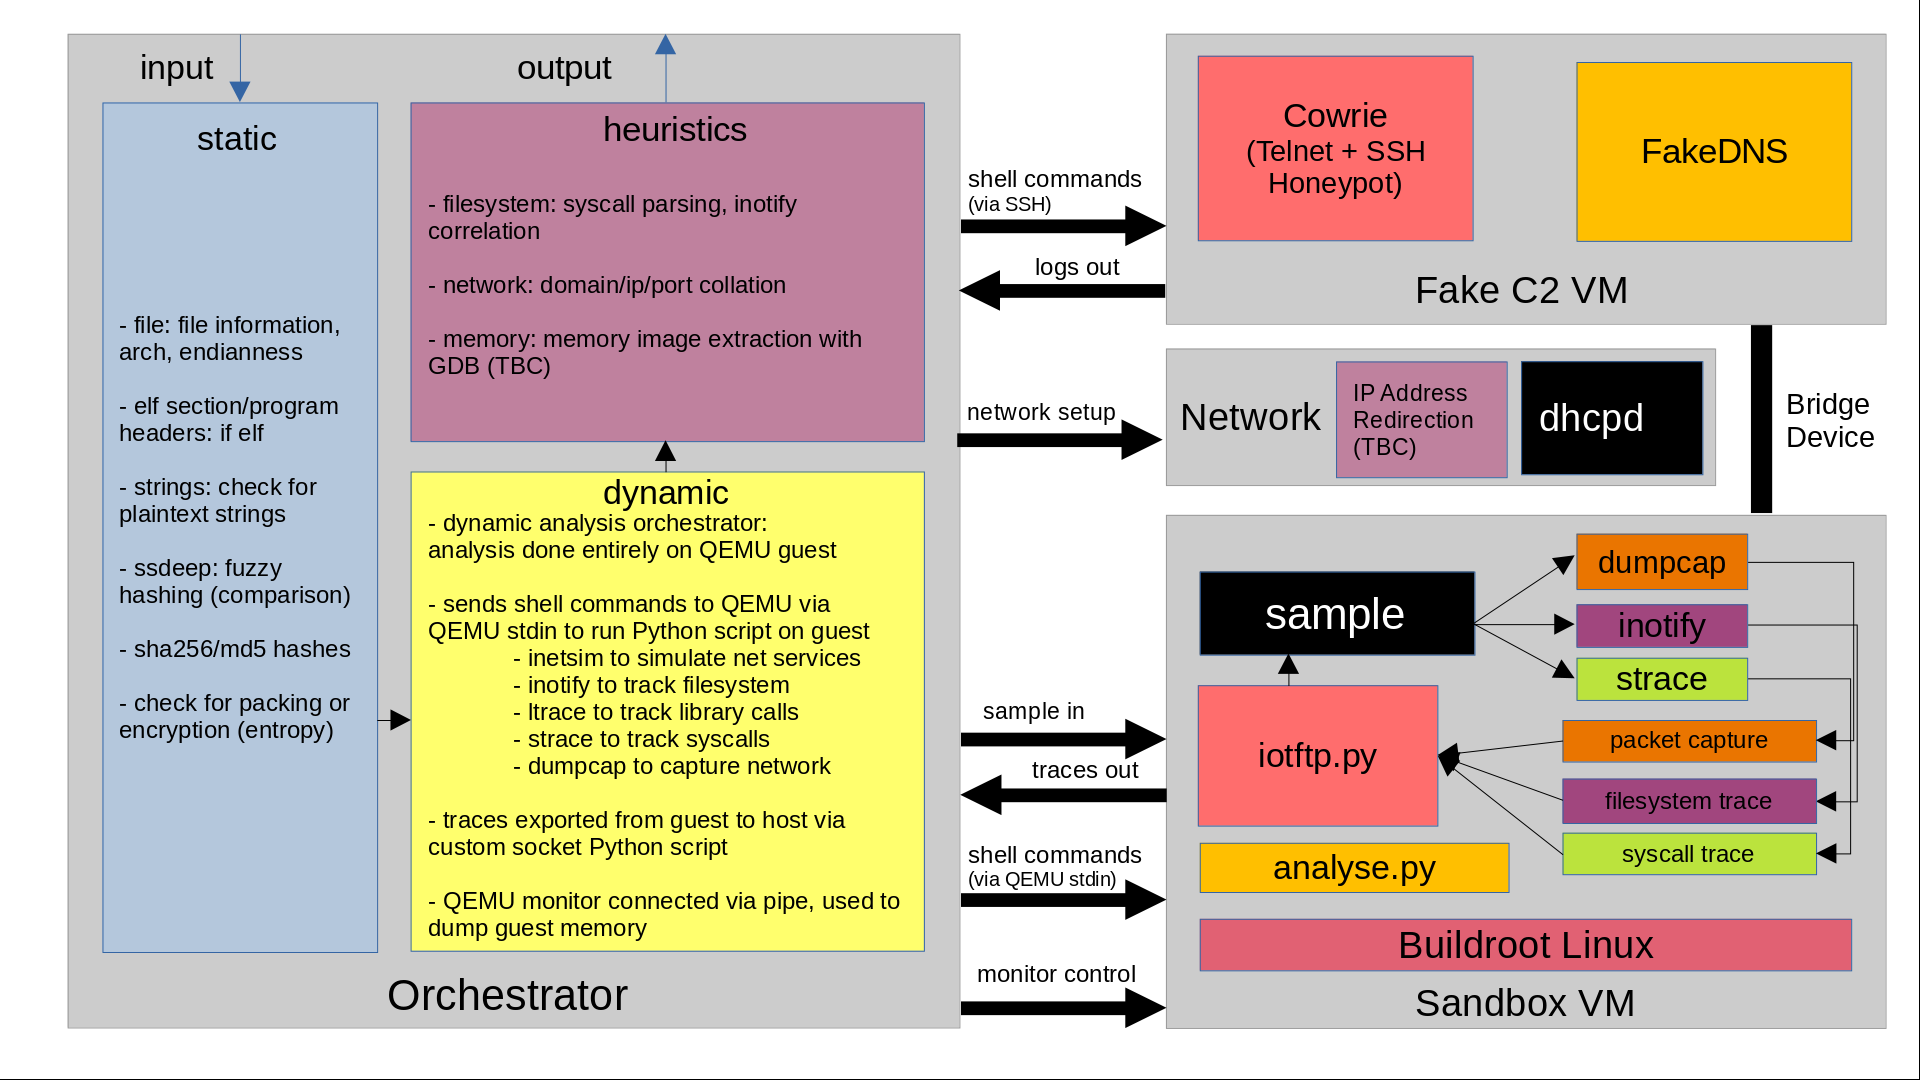
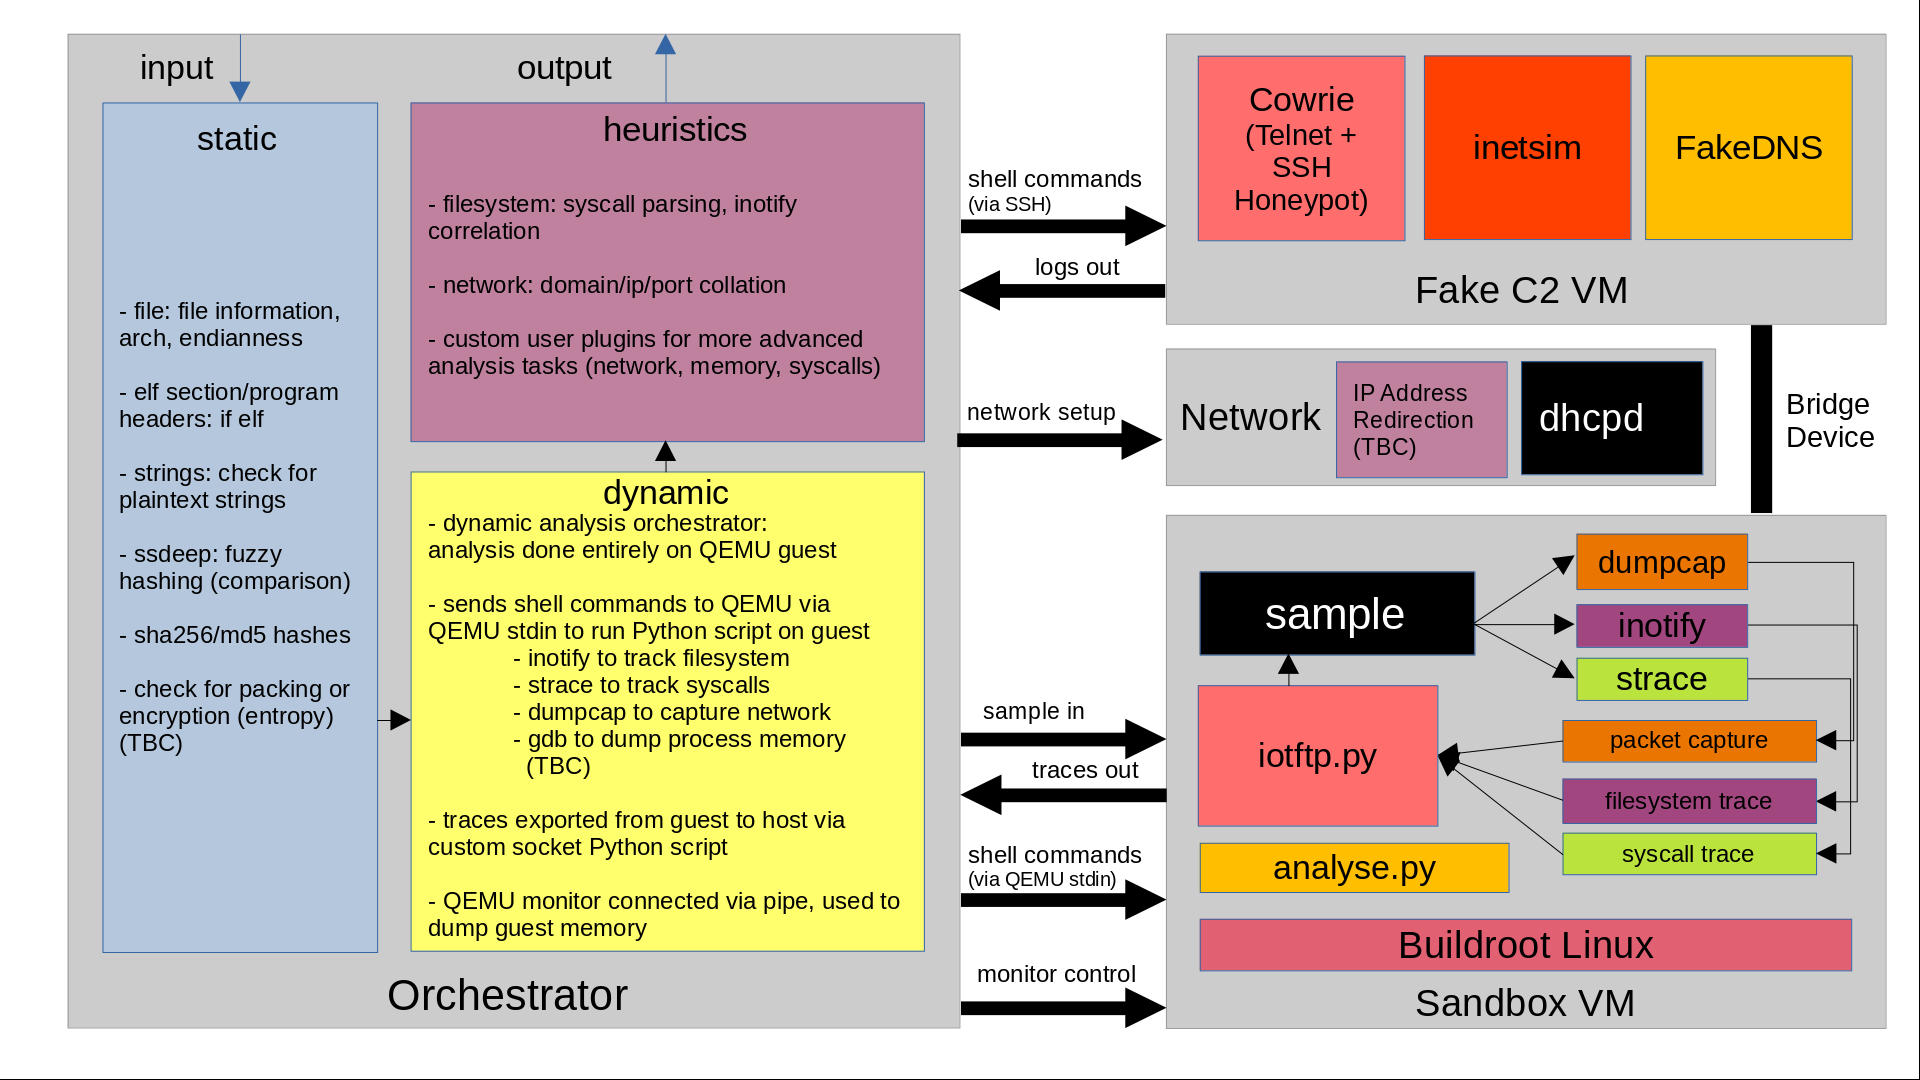
fixed typos, added new diagram

diff --git a/docs/1-overview.md b/docs/1-overview.md
@@ -44,4 +44,4 @@ It relies on a custom network infrastructure, and two main virtual machines runn
 
 The network architecture is also custom-built for IoTSuite. It makes use of a network bridge to connect two network tap devices created by QEMU when invoked. This creates an isolated network environment disconnected from the Internet, but can still be accessed from the host machine. `dhcpd`, a DHCP server, runs on the host machine to assign IP addresses to each guest machine. These addresses are directly linked to the MAC addresses of each VM, hence each VM will receive the same IP address every time.
 
-The fake CNC serves as a honeypot system to initiate malicious behaviour from the sample. It runs Cowrie, a Telnet and SSH honeypot system, to log malicious activity such as command injection. It also funs FakeDNS, a Python script to spoof DNS responses. This is to allow network requests to be redirected to the fake CNC VM. Unfortunately, due to limitations in `iptables`, direct IP redirection is currently unsupported, but will be implemented in the future.
+The fake CNC serves as a honeypot system to initiate malicious behaviour from the sample. It runs Cowrie, a Telnet and SSH honeypot system, to log malicious activity such as command injection. It also runs FakeDNS, a Python script to spoof DNS responses. This is to allow network requests to be redirected to the fake CNC VM. Unfortunately, due to limitations in `iptables`, direct IP redirection is currently unsupported, but will be implemented in the future.
